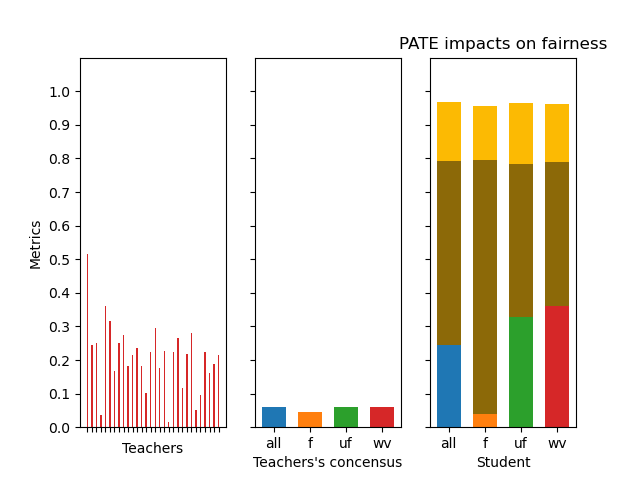
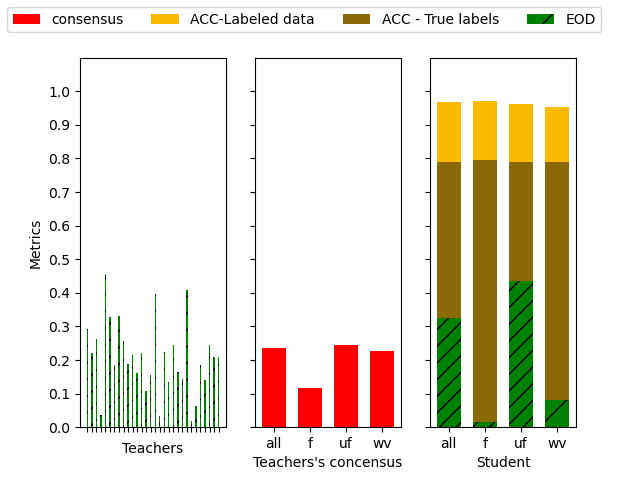
new stats

diff --git a/src/fairness_impact_eval.py b/src/fairness_impact_eval.py
@@ -52,11 +52,11 @@ else:
 
 confs = ["All", "Only fair", "Only unfair"]
 
-fig, (ax1, ax2, ax3)= plt.subplots(1, 3)
+fig, (ax1, ax2, ax3)= plt.subplots(1, 3, sharey=True)
 b_width = 0.3
 x = range(len(accuracies))
 # teachers hist 
-ax1.bar(x, eod, width = b_width, color=[colors[3] for _ in eod],label="EOD")
+ax1.bar(x, eod, width = b_width, color=["green" for _ in eod], hatch="//")
 cp_state = states.copy()
 cp_state.pop(2)
 ax1.set_xticks(x, ['' for _ in range(nb_teachers)])
@@ -89,13 +89,13 @@ for cf in confs:
     ev1, ev2 = eval_student_model(st_model, x_test, y_test, yhat_test, verbose=False)
     st_stats = fairness(st_model, x_test, yhat_test, s_test)
     stats[cf] = [ev1[1], ev2[1], st_stats["EOD"]]
-    ax2.bar([x], consensus, width = b_width, color="red")
+    ax2.bar([x], 4*consensus, width = b_width, color="red")
     color_index += 1
 
 x=1
 color_index = 0
 for cf, stat in stats.items():
-    ax3.bar([x], stat, width = b_width, color=["#fcba03", "#8c6908", "green"], bottom=[0,0,0], label=["", "", "EOD"], hatch=["", "", "/"])
+    ax3.bar([x], stat, width = b_width, color=["#fcba03", "#8c6908", "green"], bottom=[0,0,0], hatch=["", "", "//"])
     x += 3*b_width/2
 
 ax3.set_xlabel("Student")
@@ -107,17 +107,13 @@ st_stats = fairness(st_model, x_test, yhat_test, s_test)
 ev1, ev2 = eval_student_model(st_model, x_test, y_test, yhat_test, verbose=False)
 stat = [ev1[1], ev2[1], st_stats["EOD"]]
 ax3.bar([x], stat, width = b_width, color=["#fcba03", "#8c6908", "green"],  label=["ACC-Labeled data", "ACC - True labels", "EOD"], hatch=["", "", "/"])
-ax2.bar([x], consensus, width = b_width, color="red")
+ax2.bar([x], 4*consensus, width = b_width, color="red", label="consensus")
 
 ax3.set_xticks([1 + i*3*b_width/2 for i in range(len(xticks))], xticks) 
 ax2.set_xticks([1 + i*3*b_width/2 for i in range(len(xticks))], xticks) 
 
 ax2.set_xlabel("Teachers's concensus")
-plt.title(f"PATE impacts on fairness")
-"""  handles, labels = plt.gca().get_legend_handles_labels()
-by_label = dict(zip(labels, handles))
-ax3.legend(by_label.values(), by_label.keys())"""
-#ax3.legend(ncol=2)
+fig.legend(loc="outside upper left",ncol=4)
 path = "../img/archive_" + str(nb_teachers) + "/" + name
 
 while os.path.isfile(path):
